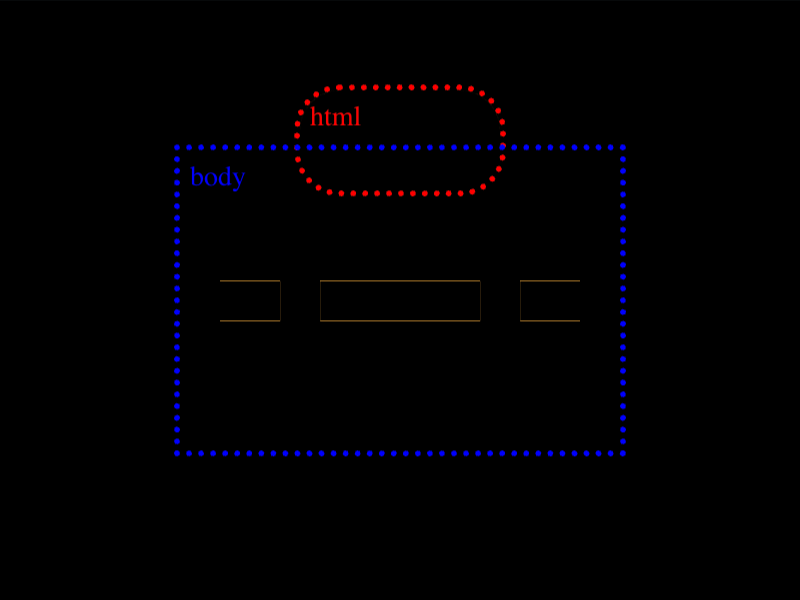
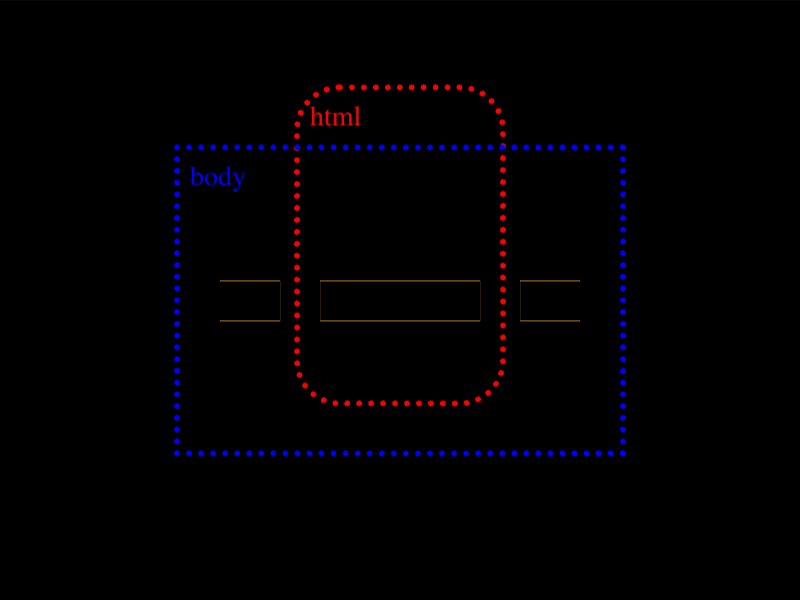
Score: 680.66, Characters: 168 (100.00% match) - CSSHub

diff --git a/Daily Targets/2026-08-23/README.md b/Daily Targets/2026-08-23/README.md
@@ -22,7 +22,7 @@ Challenge: <https://cssbattle.dev/play/JnFr5t4kizJ7EFZtXnVL>
 ## Code
 
 ```html
-<style>&{border-radius:5vw;height:10}*{margin:45 150 100;background:#f3ac3c;border:5vw solid;*{margin:10-80-150;background:conic-gradient(at 5pc 5vw,#f3ac3c 75%,#000 0)53q 48q/25vw
+<style>&{border-radius:5vw}*{margin:45 150 100;background:#f3ac3c;border:5vw solid;*{margin:10-80-45;background:conic-gradient(at 80%5vw,#f3ac3c 75%,#000 0)53Q 48Q/25vw
 ```
 
 ## Prettified code
@@ -31,15 +31,14 @@ Challenge: <https://cssbattle.dev/play/JnFr5t4kizJ7EFZtXnVL>
 <style>
 & {
   border-radius: 5vw;
-  height: 10;
 }
 * {
   margin: 45 150 100;
   background: #f3ac3c;
   border: 5vw solid;
   * {
-    margin: 10 -80 -150;
-    background: conic-gradient(at 5pc 5vw, #f3ac3c 75%, #000 0) 53Q 48Q / 25vw;
+    margin: 10 -80 -45;
+    background: conic-gradient(at 80% 5vw, #f3ac3c 75%, #000 0) 53Q 48Q / 25vw;
   }
 }
 

diff --git a/README.md b/README.md
@@ -213,7 +213,7 @@ Note - I have not yet complete all the challenges.
 <li><a href="./Daily%20Targets/2026-08-20/">Aug 20, 2026</a> (162 Characters)</li>
 <li><a href="./Daily%20Targets/2026-08-21/">Aug 21, 2026</a> (186 Characters)</li>
 <li><a href="./Daily%20Targets/2026-08-22/">Aug 22, 2026</a> (152 Characters)</li>
-<li><a href="./Daily%20Targets/2026-08-23/">Aug 23, 2026</a> (180 Characters)</li>
+<li><a href="./Daily%20Targets/2026-08-23/">Aug 23, 2026</a> (168 Characters)</li>
 </ul>
 </details>
 </li>
